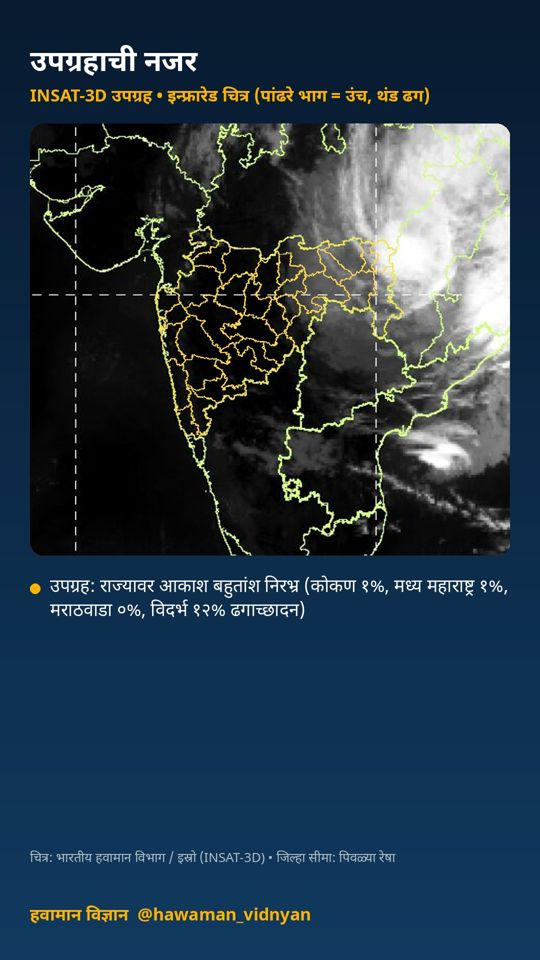
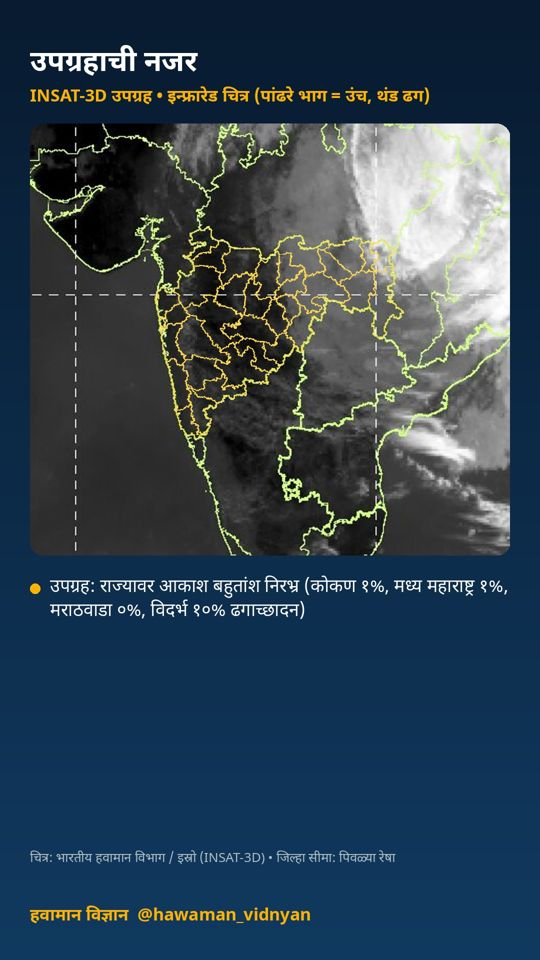
Alert 2026-10-29 (hawaman-vidnyan)

Changed region(s): [[0.0296, 0.125, 0.9481, 0.5938], [0.8889, 0.125, 0.9185, 0.1562], [0.3556, 0.625, 0.3852, 0.6562]]

diff --git a/docs/alerts/2026-10-29-hawaman/index.html b/docs/alerts/2026-10-29-hawaman/index.html
@@ -12,11 +12,11 @@
     })();
   </script>
   <title data-mr="पुढील आठवडा (१–७ नोव्हें) | महाराष्ट्र — हवामान इशारा">पुढील आठवडा (१–७ नोव्हें) | महाराष्ट्र — Weather alert</title>
-  <meta name="description" content="Yellow alert: पुढील आठवडा (१–७ नोव्हें) | महाराष्ट्र (29 October 2026)">
+  <meta name="description" content="Information analysis: पुढील आठवडा (१–७ नोव्हें) | महाराष्ट्र (29 October 2026)">
   <link rel="preconnect" href="https://fonts.googleapis.com">
   <link rel="preconnect" href="https://fonts.gstatic.com" crossorigin>
   <link href="https://fonts.googleapis.com/css2?family=Mukta:wght@400;500;600;700&family=Noto+Serif+Devanagari:wght@600;700&display=swap" rel="stylesheet">
-  <link rel="stylesheet" href="../../static/css/style.css?v=7f417a43">
+  <link rel="stylesheet" href="../../static/css/style.css?v=53f47638">
 </head>
 <body>
   <header class="site-header">
@@ -45,12 +45,12 @@
   <main class="wrap main">
 <article class="article">
   <p class="muted"><a href="../../alerts/index.html"><span class="l-en">← All alerts</span><span class="l-mr" lang="mr">← सर्व इशारे</span></a></p>
-  <div class="alert-banner level-yellow">
-    <span class="badge badge-yellow"><span class="l-en">Yellow alert · Be updated</span><span class="l-mr" lang="mr">पिवळा इशारा · अद्ययावत राहा</span></span>
+  <div class="alert-banner level-info">
+    <span class="badge badge-info"><span class="l-en">Information · analysis</span><span class="l-mr" lang="mr">माहितीपर विश्लेषण</span></span>
     <h1>पुढील आठवडा (१–७ नोव्हें) | महाराष्ट्र</h1>
     <dl class="alert-facts">
       <div><dt><span class="l-en">Date</span><span class="l-mr" lang="mr">दिनांक</span></dt><dd><time datetime="2026-10-29"><span class="l-en">Thursday, 29 October 2026</span><span class="l-mr" lang="mr">गुरुवार, २९ ऑक्टोबर २०२६</span></time></dd></div>
-<div><dt><span class="l-en">Valid</span><span class="l-mr" lang="mr">वैधता</span></dt><dd><span class="l-en">29 October 2026 — Medium-range analysis (4–10 days)</span><span class="l-mr" lang="mr">२९ ऑक्टोबर २०२६ — मध्यम कालावधी विश्लेषण (४–१० दिवस)</span></dd></div><div><dt><span class="l-en">Districts / regions</span><span class="l-mr" lang="mr">जिल्हे/भाग</span></dt><dd><span class="l-en">Ratnagiri</span><span class="l-mr" lang="mr">रत्नागिरी</span>, <span class="l-en">Satara</span><span class="l-mr" lang="mr">सातारा</span>, <span class="l-en">Raigad</span><span class="l-mr" lang="mr">रायगड</span>, <span class="l-en">Pune</span><span class="l-mr" lang="mr">पुणे</span>, <span class="l-en">Jalna</span><span class="l-mr" lang="mr">जालना</span>, <span class="l-en">Nashik</span><span class="l-mr" lang="mr">नाशिक</span>, <span class="l-en">Gondia</span><span class="l-mr" lang="mr">गोंदिया</span>, <span class="l-en">Nagpur</span><span class="l-mr" lang="mr">नागपूर</span>, <span class="l-en">Amravati</span><span class="l-mr" lang="mr">अमरावती</span>, <span class="l-en">Nandurbar</span><span class="l-mr" lang="mr">नंदुरबार</span>, <span class="l-en">Dhule</span><span class="l-mr" lang="mr">धुळे</span>, <span class="l-en">Bhandara</span><span class="l-mr" lang="mr">भंडारा</span>, <span class="l-en">Chandrapur</span><span class="l-mr" lang="mr">चंद्रपूर</span></dd></div><div><dt><span class="l-en">Hazards</span><span class="l-mr" lang="mr">धोके</span></dt><dd><span class="l-en">Thunderstorm &amp; lightning</span><span class="l-mr" lang="mr">मेघगर्जना व विजा</span>, <span class="l-en">Strong surface winds</span><span class="l-mr" lang="mr">सोसाट्याचा वारा</span></dd></div>    </dl>
+<div><dt><span class="l-en">Valid</span><span class="l-mr" lang="mr">वैधता</span></dt><dd><span class="l-en">29 October 2026 — Medium-range analysis (4–10 days)</span><span class="l-mr" lang="mr">२९ ऑक्टोबर २०२६ — मध्यम कालावधी विश्लेषण (४–१० दिवस)</span></dd></div><div><dt><span class="l-en">Districts / regions</span><span class="l-mr" lang="mr">जिल्हे/भाग</span></dt><dd><span class="l-en">Konkan</span><span class="l-mr" lang="mr">कोकण</span>, <span class="l-en">Madhya Maharashtra</span><span class="l-mr" lang="mr">मध्य महाराष्ट्र</span>, <span class="l-en">Marathwada</span><span class="l-mr" lang="mr">मराठवाडा</span>, <span class="l-en">Vidarbha</span><span class="l-mr" lang="mr">विदर्भ</span></dd></div>    </dl>
   </div>
   <section class="reel">
     <h2><span class="l-en">Today&#39;s visual analysis</span><span class="l-mr" lang="mr">आजचे दृश्य विश्लेषण</span> <span class="muted"><span class="l-en">(reel slides)</span><span class="l-mr" lang="mr">(रील स्लाइड्स)</span></span></h2>
@@ -121,7 +121,7 @@
 <p><img src="../../static/images/alerts/2026-10-29/2_circulation_chart.jpg" alt="वाऱ्यांची स्थिती व दाब प्रणाली" /></p>
 <h2>सविस्तर हवामान विश्लेषण</h2>
 <h3>अल्पकालीन विश्लेषण (१–३ दिवस)</h3>
-<p>नमस्कार! आज गुरुवार, २९ ऑक्टोबर. पाहूया महाराष्ट्राचे हवामान विश्लेषण. भारतीय हवामान विभागाने रत्नागिरी, सातारा, रायगड, पुणे, जालना, नंदुरबार, धुळे जिल्ह्यांसाठी मेघगर्जना व विजा संदर्भात पिवळा इशारा दिला आहे. भारतीय हवामान विभागाने नाशिक, गोंदिया, नागपूर, अमरावती, भंडारा, चंद्रपूर जिल्ह्यांसाठी सोसाट्याचा वारा व मेघगर्जना व विजा संदर्भात पिवळा इशारा दिला आहे. कोकण: तुरळक ठिकाणी मेघगर्जनेची शक्यता. कमाल तापमान सुमारे ३४ आणि किमान २२ अंश सेल्सिअस. मध्य महाराष्ट्र: तुरळक ठिकाणी मेघगर्जनेची शक्यता. कमाल तापमान सुमारे ३३ आणि किमान २० अंश सेल्सिअस. मराठवाडा: तुरळक ठिकाणी मेघगर्जनेची शक्यता. कमाल तापमान सुमारे ३२ आणि किमान २१ अंश सेल्सिअस. विदर्भ: काही ठिकाणी मेघगर्जनेसह हलका पाऊस. कमाल तापमान सुमारे ३० आणि किमान २० अंश सेल्सिअस. काल राज्यातील सर्वाधिक तापमान डहाणू येथे ३६.७ अंश (सरासरीपेक्षा २.९° जास्त) नोंदले गेले. आता पाहूया हवामानामागचे कारण, म्हणजेच वाऱ्यांची स्थिती. महाराष्ट्रावर २९ ऑक्टो दरम्यान तीव्र कमी दाबाचे क्षेत्र (डिप्रेशन) तयार होण्याचे संकेत; प्रणाली उत्तरेकडे (मध्य भारत) सरकण्याची शक्यता (मॉडेल संकेत; IMD च्या अधिकृत माहितीकडे लक्ष ठेवा). या प्रणालीमुळे राज्यात ढगाळ हवामान व पावसाची शक्यता वाढू शकते. पूर्व भारतावर तीव्र कमी दाबाचे क्षेत्र (डिप्रेशन) आहे; प्रणाली दक्षिणेकडे (दक्षिण भारत) सरकण्याची शक्यता. ईशान्य अरबी समुद्रात कमी दाबाचे क्षेत्र आहे; प्रणाली नैऋत्येकडे (पूर्व-मध्य अरबी समुद्र) सरकण्याची शक्यता. महाराष्ट्रावर सुमारे १.५ किमी उंचीवर उत्तरेकडून वारे. उत्तर भारतात २९ ऑक्टो पासून पश्चिमी विक्षोभ; तो पुढे सरकल्यानंतर उत्तरेकडील थंड वाऱ्यांमुळे राज्यात किमान तापमानात घट होऊ शकते.</p>
+<p>नमस्कार! आज गुरुवार, २९ ऑक्टोबर. पाहूया महाराष्ट्राचे हवामान विश्लेषण. कोकण: कोरडे हवामान. कमाल तापमान सुमारे ३४ आणि किमान २२ अंश सेल्सिअस. मध्य महाराष्ट्र: कोरडे हवामान. कमाल तापमान सुमारे ३३ आणि किमान २० अंश सेल्सिअस. मराठवाडा: कोरडे हवामान. कमाल तापमान सुमारे ३२ आणि किमान २१ अंश सेल्सिअस. विदर्भ: काही ठिकाणी हलका पाऊस. कमाल तापमान सुमारे ३० आणि किमान २० अंश सेल्सिअस. आता पाहूया हवामानामागचे कारण, म्हणजेच वाऱ्यांची स्थिती. महाराष्ट्रावर २९ ऑक्टो दरम्यान तीव्र कमी दाबाचे क्षेत्र (डिप्रेशन) तयार होण्याचे संकेत; प्रणाली उत्तरेकडे (मध्य भारत) सरकण्याची शक्यता (मॉडेल संकेत; IMD च्या अधिकृत माहितीकडे लक्ष ठेवा). या प्रणालीमुळे राज्यात ढगाळ हवामान व पावसाची शक्यता वाढू शकते. पूर्व भारतावर तीव्र कमी दाबाचे क्षेत्र (डिप्रेशन) आहे; प्रणाली दक्षिणेकडे (दक्षिण भारत) सरकण्याची शक्यता. ईशान्य अरबी समुद्रात कमी दाबाचे क्षेत्र आहे; प्रणाली नैऋत्येकडे (पूर्व-मध्य अरबी समुद्र) सरकण्याची शक्यता. महाराष्ट्रावर सुमारे १.५ किमी उंचीवर उत्तरेकडून वारे. उत्तर भारतात २९ ऑक्टो पासून पश्चिमी विक्षोभ; तो पुढे सरकल्यानंतर उत्तरेकडील थंड वाऱ्यांमुळे राज्यात किमान तापमानात घट होऊ शकते.</p>
 <h3>मध्यम कालावधी विश्लेषण (४–१० दिवस)</h3>
 <p>आता पुढील आठवड्याचा, म्हणजे १–७ नोव्हें या काळाचे विश्लेषण. युरोपियन हवामान केंद्राच्या ५१ वेगवेगळ्या संभाव्य मॉडेल-परिणामांवर आधारित. कोकण: पावसाची शक्यता मध्यम (२ नोव्हें जास्त). मध्य महाराष्ट्र: पावसाची शक्यता अधिक (२ नोव्हें जास्त). मराठवाडा: पावसाची शक्यता खूप अधिक (२ नोव्हें जास्त). विदर्भ: पावसाची शक्यता अधिक (२ नोव्हें जास्त).  तापमानात विशेष बदल नाही. या काळातील वाऱ्यांची स्थिती: १ नोव्हें रोजी नैऋत्य बंगालच्या उपसागरात असलेली चक्रीवादळसदृश प्रणाली पश्चिमेकडे (पूर्व-मध्य अरबी समुद्र) सरकण्याची शक्यता (मॉडेल संकेत; IMD च्या अधिकृत माहितीकडे लक्ष ठेवा). या प्रणालीमुळे राज्यात ढगाळ हवामान व पावसाची शक्यता वाढू शकते. ईशान्य अरबी समुद्रात ३ नोव्हें दरम्यान कमी दाबाचे क्षेत्र तयार होण्याचे संकेत; प्रणाली वायव्येकडे (गुजरात-राजस्थान) सरकण्याची शक्यता. पूर्व भारतावर ५ नोव्हें दरम्यान कमी दाबाचे क्षेत्र तयार होण्याचे संकेत; प्रणाली आग्नेयेकडे (ईशान्य भारत) सरकण्याची शक्यता. महाराष्ट्रावर सुमारे १.५ किमी उंचीवर ईशान्येकडून वारे. पुढील काळात हवेच्या मधल्या थरातील बाष्प कमी होत आहे.</p>
 <h3>विस्तारित विश्लेषण (२–४ आठवडे)</h3>

diff --git a/docs/index.html b/docs/index.html
@@ -16,7 +16,7 @@
   <link rel="preconnect" href="https://fonts.googleapis.com">
   <link rel="preconnect" href="https://fonts.gstatic.com" crossorigin>
   <link href="https://fonts.googleapis.com/css2?family=Mukta:wght@400;500;600;700&family=Noto+Serif+Devanagari:wght@600;700&display=swap" rel="stylesheet">
-  <link rel="stylesheet" href="./static/css/style.css?v=7f417a43">
+  <link rel="stylesheet" href="./static/css/style.css?v=53f47638">
 </head>
 <body>
   <header class="site-header">
@@ -45,7 +45,7 @@
   <main class="wrap main">
 <section class="hero">
   <div class="hero-photo">
-    <img src="./static/images/profile.jpg?v=7f417a43" alt="Arvind Pagire" width="200" height="200">
+    <img src="./static/images/profile.jpg?v=53f47638" alt="Arvind Pagire" width="200" height="200">
   </div>
   <div class="hero-text">
     <p class="eyebrow"><span class="l-en">Meteorologist · AI-based weather prediction · Hybrid modelling</span><span class="l-mr" lang="mr">हवामानशास्त्रज्ञ · AI-आधारित हवामान अंदाज · हायब्रिड मॉडेलिंग</span></p>
@@ -71,13 +71,13 @@
     <h2><span class="l-en">Latest weather alert</span><span class="l-mr" lang="mr">ताजा हवामान इशारा</span></h2>
     <a href="./alerts/index.html"><span class="l-en">All alerts →</span><span class="l-mr" lang="mr">सर्व इशारे →</span></a>
   </div>
-    <article class="alert-card level-yellow">
+    <article class="alert-card level-info">
   <div class="alert-card-top">
-    <span class="badge badge-yellow"><span class="l-en">Yellow alert · Be updated</span><span class="l-mr" lang="mr">पिवळा इशारा · अद्ययावत राहा</span></span>
+    <span class="badge badge-info"><span class="l-en">Information · analysis</span><span class="l-mr" lang="mr">माहितीपर विश्लेषण</span></span>
     <time datetime="2026-10-29" class="muted"><span class="l-en">Thursday, 29 October 2026</span><span class="l-mr" lang="mr">गुरुवार, २९ ऑक्टोबर २०२६</span></time>
   </div>
   <h3><a href="./alerts/2026-10-29-hawaman/index.html">पुढील आठवडा (१–७ नोव्हें) | महाराष्ट्र</a></h3>
-<p class="alert-meta"><strong><span class="l-en">Districts / regions:</span><span class="l-mr" lang="mr">जिल्हे/भाग:</span></strong> <span class="l-en">Ratnagiri</span><span class="l-mr" lang="mr">रत्नागिरी</span>, <span class="l-en">Satara</span><span class="l-mr" lang="mr">सातारा</span>, <span class="l-en">Raigad</span><span class="l-mr" lang="mr">रायगड</span>, <span class="l-en">Pune</span><span class="l-mr" lang="mr">पुणे</span>, <span class="l-en">Jalna</span><span class="l-mr" lang="mr">जालना</span>, <span class="l-en">Nashik</span><span class="l-mr" lang="mr">नाशिक</span>, <span class="l-en">Gondia</span><span class="l-mr" lang="mr">गोंदिया</span>, <span class="l-en">Nagpur</span><span class="l-mr" lang="mr">नागपूर</span>, <span class="l-en">Amravati</span><span class="l-mr" lang="mr">अमरावती</span>, <span class="l-en">Nandurbar</span><span class="l-mr" lang="mr">नंदुरबार</span>, <span class="l-en">Dhule</span><span class="l-mr" lang="mr">धुळे</span>, <span class="l-en">Bhandara</span><span class="l-mr" lang="mr">भंडारा</span>, <span class="l-en">Chandrapur</span><span class="l-mr" lang="mr">चंद्रपूर</span></p><p class="alert-meta"><strong><span class="l-en">Hazards:</span><span class="l-mr" lang="mr">धोके:</span></strong> <span class="l-en">Thunderstorm &amp; lightning</span><span class="l-mr" lang="mr">मेघगर्जना व विजा</span>, <span class="l-en">Strong surface winds</span><span class="l-mr" lang="mr">सोसाट्याचा वारा</span></p><p class="alert-meta"><strong><span class="l-en">Valid:</span><span class="l-mr" lang="mr">वैधता:</span></strong> <span class="l-en">29 October 2026 — Medium-range analysis (4–10 days)</span><span class="l-mr" lang="mr">२९ ऑक्टोबर २०२६ — मध्यम कालावधी विश्लेषण (४–१० दिवस)</span></p></article>
+<p class="alert-meta"><strong><span class="l-en">Districts / regions:</span><span class="l-mr" lang="mr">जिल्हे/भाग:</span></strong> <span class="l-en">Konkan</span><span class="l-mr" lang="mr">कोकण</span>, <span class="l-en">Madhya Maharashtra</span><span class="l-mr" lang="mr">मध्य महाराष्ट्र</span>, <span class="l-en">Marathwada</span><span class="l-mr" lang="mr">मराठवाडा</span>, <span class="l-en">Vidarbha</span><span class="l-mr" lang="mr">विदर्भ</span></p><p class="alert-meta"><strong><span class="l-en">Valid:</span><span class="l-mr" lang="mr">वैधता:</span></strong> <span class="l-en">29 October 2026 — Medium-range analysis (4–10 days)</span><span class="l-mr" lang="mr">२९ ऑक्टोबर २०२६ — मध्यम कालावधी विश्लेषण (४–१० दिवस)</span></p></article>
     <p class="stale-note muted" data-date="2026-10-29" hidden>
       <span class="l-en">Note: this alert is from 29 October 2026; today&#39;s alert has not been published yet.</span><span class="l-mr" lang="mr">टीप: हा इशारा २९ ऑक्टोबर २०२६ रोजीचा आहे; आजचा इशारा अद्याप प्रसिद्ध झालेला नाही.</span></p>
   <p class="follow"><a href="https://x.com/arvind_weathLAB" rel="noopener" target="_blank">𝕏 <span class="l-en">Daily Maharashtra weather updates:</span><span class="l-mr" lang="mr">दैनंदिन महाराष्ट्र हवामान अपडेट:</span> @arvind_weathLAB</a></p>

diff --git a/docs/alerts/index.html b/docs/alerts/index.html
@@ -16,7 +16,7 @@
   <link rel="preconnect" href="https://fonts.googleapis.com">
   <link rel="preconnect" href="https://fonts.gstatic.com" crossorigin>
   <link href="https://fonts.googleapis.com/css2?family=Mukta:wght@400;500;600;700&family=Noto+Serif+Devanagari:wght@600;700&display=swap" rel="stylesheet">
-  <link rel="stylesheet" href="../static/css/style.css?v=7f417a43">
+  <link rel="stylesheet" href="../static/css/style.css?v=53f47638">
 </head>
 <body>
   <header class="site-header">
@@ -58,13 +58,13 @@
 </details>
 
 <div class="stack">
-<article class="alert-card level-yellow">
+<article class="alert-card level-info">
   <div class="alert-card-top">
-    <span class="badge badge-yellow"><span class="l-en">Yellow alert · Be updated</span><span class="l-mr" lang="mr">पिवळा इशारा · अद्ययावत राहा</span></span>
+    <span class="badge badge-info"><span class="l-en">Information · analysis</span><span class="l-mr" lang="mr">माहितीपर विश्लेषण</span></span>
     <time datetime="2026-10-29" class="muted"><span class="l-en">Thursday, 29 October 2026</span><span class="l-mr" lang="mr">गुरुवार, २९ ऑक्टोबर २०२६</span></time>
   </div>
   <h3><a href="../alerts/2026-10-29-hawaman/index.html">पुढील आठवडा (१–७ नोव्हें) | महाराष्ट्र</a></h3>
-<p class="alert-meta"><strong><span class="l-en">Districts / regions:</span><span class="l-mr" lang="mr">जिल्हे/भाग:</span></strong> <span class="l-en">Ratnagiri</span><span class="l-mr" lang="mr">रत्नागिरी</span>, <span class="l-en">Satara</span><span class="l-mr" lang="mr">सातारा</span>, <span class="l-en">Raigad</span><span class="l-mr" lang="mr">रायगड</span>, <span class="l-en">Pune</span><span class="l-mr" lang="mr">पुणे</span>, <span class="l-en">Jalna</span><span class="l-mr" lang="mr">जालना</span>, <span class="l-en">Nashik</span><span class="l-mr" lang="mr">नाशिक</span>, <span class="l-en">Gondia</span><span class="l-mr" lang="mr">गोंदिया</span>, <span class="l-en">Nagpur</span><span class="l-mr" lang="mr">नागपूर</span>, <span class="l-en">Amravati</span><span class="l-mr" lang="mr">अमरावती</span>, <span class="l-en">Nandurbar</span><span class="l-mr" lang="mr">नंदुरबार</span>, <span class="l-en">Dhule</span><span class="l-mr" lang="mr">धुळे</span>, <span class="l-en">Bhandara</span><span class="l-mr" lang="mr">भंडारा</span>, <span class="l-en">Chandrapur</span><span class="l-mr" lang="mr">चंद्रपूर</span></p><p class="alert-meta"><strong><span class="l-en">Hazards:</span><span class="l-mr" lang="mr">धोके:</span></strong> <span class="l-en">Thunderstorm &amp; lightning</span><span class="l-mr" lang="mr">मेघगर्जना व विजा</span>, <span class="l-en">Strong surface winds</span><span class="l-mr" lang="mr">सोसाट्याचा वारा</span></p><p class="alert-meta"><strong><span class="l-en">Valid:</span><span class="l-mr" lang="mr">वैधता:</span></strong> <span class="l-en">29 October 2026 — Medium-range analysis (4–10 days)</span><span class="l-mr" lang="mr">२९ ऑक्टोबर २०२६ — मध्यम कालावधी विश्लेषण (४–१० दिवस)</span></p></article><article class="alert-card level-info">
+<p class="alert-meta"><strong><span class="l-en">Districts / regions:</span><span class="l-mr" lang="mr">जिल्हे/भाग:</span></strong> <span class="l-en">Konkan</span><span class="l-mr" lang="mr">कोकण</span>, <span class="l-en">Madhya Maharashtra</span><span class="l-mr" lang="mr">मध्य महाराष्ट्र</span>, <span class="l-en">Marathwada</span><span class="l-mr" lang="mr">मराठवाडा</span>, <span class="l-en">Vidarbha</span><span class="l-mr" lang="mr">विदर्भ</span></p><p class="alert-meta"><strong><span class="l-en">Valid:</span><span class="l-mr" lang="mr">वैधता:</span></strong> <span class="l-en">29 October 2026 — Medium-range analysis (4–10 days)</span><span class="l-mr" lang="mr">२९ ऑक्टोबर २०२६ — मध्यम कालावधी विश्लेषण (४–१० दिवस)</span></p></article><article class="alert-card level-info">
   <div class="alert-card-top">
     <span class="badge badge-info"><span class="l-en">Information · analysis</span><span class="l-mr" lang="mr">माहितीपर विश्लेषण</span></span>
     <time datetime="2026-10-28" class="muted"><span class="l-en">Wednesday, 28 October 2026</span><span class="l-mr" lang="mr">बुधवार, २८ ऑक्टोबर २०२६</span></time>

diff --git a/docs/alerts/2026-10-25-hawaman/index.html b/docs/alerts/2026-10-25-hawaman/index.html
@@ -16,7 +16,7 @@
   <link rel="preconnect" href="https://fonts.googleapis.com">
   <link rel="preconnect" href="https://fonts.gstatic.com" crossorigin>
   <link href="https://fonts.googleapis.com/css2?family=Mukta:wght@400;500;600;700&family=Noto+Serif+Devanagari:wght@600;700&display=swap" rel="stylesheet">
-  <link rel="stylesheet" href="../../static/css/style.css?v=7f417a43">
+  <link rel="stylesheet" href="../../static/css/style.css?v=53f47638">
 </head>
 <body>
   <header class="site-header">

diff --git a/docs/alerts/2026-10-26-hawaman/index.html b/docs/alerts/2026-10-26-hawaman/index.html
@@ -16,7 +16,7 @@
   <link rel="preconnect" href="https://fonts.googleapis.com">
   <link rel="preconnect" href="https://fonts.gstatic.com" crossorigin>
   <link href="https://fonts.googleapis.com/css2?family=Mukta:wght@400;500;600;700&family=Noto+Serif+Devanagari:wght@600;700&display=swap" rel="stylesheet">
-  <link rel="stylesheet" href="../../static/css/style.css?v=7f417a43">
+  <link rel="stylesheet" href="../../static/css/style.css?v=53f47638">
 </head>
 <body>
   <header class="site-header">

diff --git a/docs/alerts/2026-10-27-hawaman/index.html b/docs/alerts/2026-10-27-hawaman/index.html
@@ -16,7 +16,7 @@
   <link rel="preconnect" href="https://fonts.googleapis.com">
   <link rel="preconnect" href="https://fonts.gstatic.com" crossorigin>
   <link href="https://fonts.googleapis.com/css2?family=Mukta:wght@400;500;600;700&family=Noto+Serif+Devanagari:wght@600;700&display=swap" rel="stylesheet">
-  <link rel="stylesheet" href="../../static/css/style.css?v=7f417a43">
+  <link rel="stylesheet" href="../../static/css/style.css?v=53f47638">
 </head>
 <body>
   <header class="site-header">

diff --git a/docs/alerts/2026-10-28-hawaman/index.html b/docs/alerts/2026-10-28-hawaman/index.html
@@ -16,7 +16,7 @@
   <link rel="preconnect" href="https://fonts.googleapis.com">
   <link rel="preconnect" href="https://fonts.gstatic.com" crossorigin>
   <link href="https://fonts.googleapis.com/css2?family=Mukta:wght@400;500;600;700&family=Noto+Serif+Devanagari:wght@600;700&display=swap" rel="stylesheet">
-  <link rel="stylesheet" href="../../static/css/style.css?v=7f417a43">
+  <link rel="stylesheet" href="../../static/css/style.css?v=53f47638">
 </head>
 <body>
   <header class="site-header">

diff --git a/docs/contact/thanks/index.html b/docs/contact/thanks/index.html
@@ -16,7 +16,7 @@
   <link rel="preconnect" href="https://fonts.googleapis.com">
   <link rel="preconnect" href="https://fonts.gstatic.com" crossorigin>
   <link href="https://fonts.googleapis.com/css2?family=Mukta:wght@400;500;600;700&family=Noto+Serif+Devanagari:wght@600;700&display=swap" rel="stylesheet">
-  <link rel="stylesheet" href="../../static/css/style.css?v=7f417a43">
+  <link rel="stylesheet" href="../../static/css/style.css?v=53f47638">
 </head>
 <body>
   <header class="site-header">

diff --git a/docs/about/index.html b/docs/about/index.html
@@ -16,7 +16,7 @@
   <link rel="preconnect" href="https://fonts.googleapis.com">
   <link rel="preconnect" href="https://fonts.gstatic.com" crossorigin>
   <link href="https://fonts.googleapis.com/css2?family=Mukta:wght@400;500;600;700&family=Noto+Serif+Devanagari:wght@600;700&display=swap" rel="stylesheet">
-  <link rel="stylesheet" href="../static/css/style.css?v=7f417a43">
+  <link rel="stylesheet" href="../static/css/style.css?v=53f47638">
 </head>
 <body>
   <header class="site-header">

diff --git a/docs/blog/index.html b/docs/blog/index.html
@@ -16,7 +16,7 @@
   <link rel="preconnect" href="https://fonts.googleapis.com">
   <link rel="preconnect" href="https://fonts.gstatic.com" crossorigin>
   <link href="https://fonts.googleapis.com/css2?family=Mukta:wght@400;500;600;700&family=Noto+Serif+Devanagari:wght@600;700&display=swap" rel="stylesheet">
-  <link rel="stylesheet" href="../static/css/style.css?v=7f417a43">
+  <link rel="stylesheet" href="../static/css/style.css?v=53f47638">
 </head>
 <body>
   <header class="site-header">

diff --git a/docs/contact/index.html b/docs/contact/index.html
@@ -16,7 +16,7 @@
   <link rel="preconnect" href="https://fonts.googleapis.com">
   <link rel="preconnect" href="https://fonts.gstatic.com" crossorigin>
   <link href="https://fonts.googleapis.com/css2?family=Mukta:wght@400;500;600;700&family=Noto+Serif+Devanagari:wght@600;700&display=swap" rel="stylesheet">
-  <link rel="stylesheet" href="../static/css/style.css?v=7f417a43">
+  <link rel="stylesheet" href="../static/css/style.css?v=53f47638">
 </head>
 <body>
   <header class="site-header">

diff --git a/docs/forecast/index.html b/docs/forecast/index.html
@@ -16,7 +16,7 @@
   <link rel="preconnect" href="https://fonts.googleapis.com">
   <link rel="preconnect" href="https://fonts.gstatic.com" crossorigin>
   <link href="https://fonts.googleapis.com/css2?family=Mukta:wght@400;500;600;700&family=Noto+Serif+Devanagari:wght@600;700&display=swap" rel="stylesheet">
-  <link rel="stylesheet" href="../static/css/style.css?v=7f417a43">
+  <link rel="stylesheet" href="../static/css/style.css?v=53f47638">
 </head>
 <body>
   <header class="site-header">
